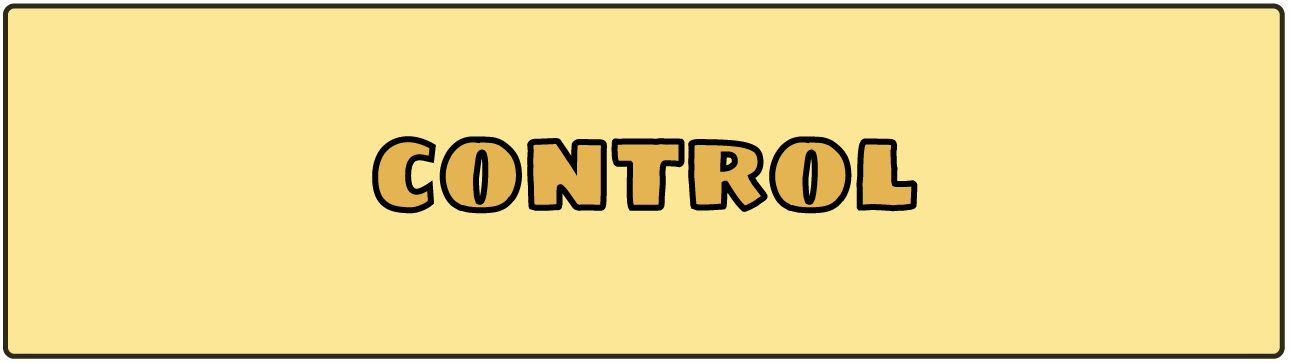
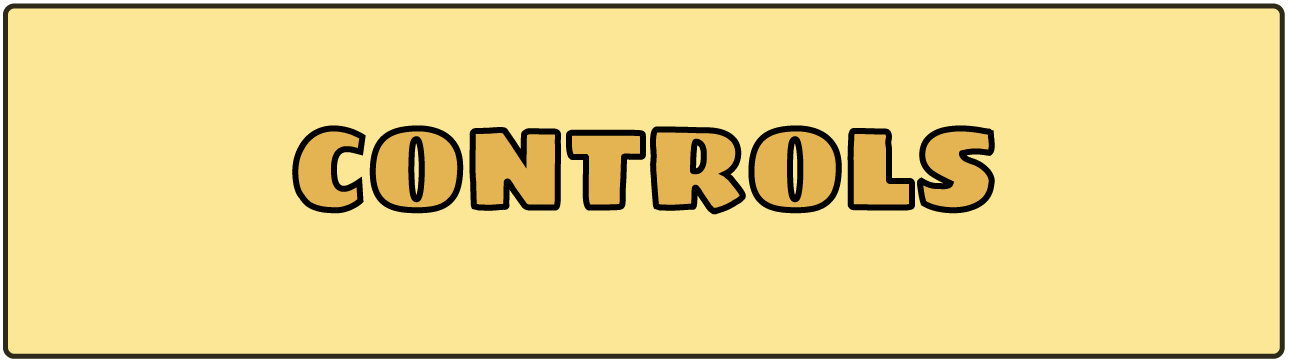
Adding controls button

Changed region(s): [[0.2171, 0.3333, 0.7752, 0.6061]]

diff --git a/public/js/interact-start-menu.js b/public/js/interact-start-menu.js
@@ -20,6 +20,7 @@ AFRAME.registerComponent('interact-start-menu', {
             var trashLogo = document.getElementById('startLogo');
             var singlePlayer = document.getElementById('singleButton');
             var multiplePlayer = document.getElementById('multiButton');
+            var controlButton = document.getElementById('controlsButton');
 
             //Raycaster Listeners
             menuButton.addEventListener('mouseenter', function(e){
@@ -40,12 +41,14 @@ AFRAME.registerComponent('interact-start-menu', {
                 trashLogo.setAttribute('position', '0 2 -2');
                 singlePlayer.setAttribute('position', '-0.8 1 -2');
                 multiplePlayer.setAttribute('position', '0.8 1 -2');
+                controlButton.setAttribute('position', '-0.8 2 -2');
             });
 
             scene.addEventListener('exit-vr', function(e){
                 trashLogo.setAttribute('position', '0 1 -2');
                 singlePlayer.setAttribute('position', '-0.8 0 -2');
                 multiplePlayer.setAttribute('position', '0.8 0 -2');
+                controlButton.setAttribute('position', '0 2 -2');
             });
         });
     },
@@ -59,6 +62,7 @@ AFRAME.registerComponent('interact-start-menu', {
         var trashLogo = document.createElement('a-image');
         var singlePlayer = document.createElement('a-image');
         var multiplePlayer = document.createElement('a-image');
+        var controlsButton = document.createElement('a-image');
 
         //Empty start menu of child nodes
         while (startMenu.firstChild) {
@@ -98,9 +102,21 @@ AFRAME.registerComponent('interact-start-menu', {
         multiplePlayer.setAttribute('width', '1.29');
         multiplePlayer.setAttribute('height', '.363');
 
+        controlsButton.setAttribute('class', 'menu');
+        controlsButton.setAttribute('id', 'controlsButton');
+        controlsButton.setAttribute('src', '#controls-button');
+        if(scene.is('vr-mode')){
+            controlsButton.setAttribute('position', '0 0.5 -2');
+        } else {
+            controlsButton.setAttribute('position', '0 -0.5 -2');
+        }
+        controlsButton.setAttribute('width', '1.29');
+        controlsButton.setAttribute('height', '.363');
+
         startMenu.append(trashLogo);
         startMenu.append(singlePlayer);
         startMenu.append(multiplePlayer);
+        startMenu.append(controlsButton);
 
         context.menuEventListener(context.el.querySelectorAll('.menu'));
     },

diff --git a/public/index.html b/public/index.html
@@ -28,7 +28,7 @@
                 <img id="pause-logo" src="assets/pauseLogo.png">
                 <img id="resume-button" src="assets/resumeButton.png">
                 <img id="exit-button" src="assets/exitButton.png">
-                <img id="control-button" src="assets/controlButton.png">
+                <img id="controls-button" src="assets/controlButton.png">
                 <img id="mouse-icon" src="assets/cursor/cursor.png">
 
                 <!--TEXTURE-->
